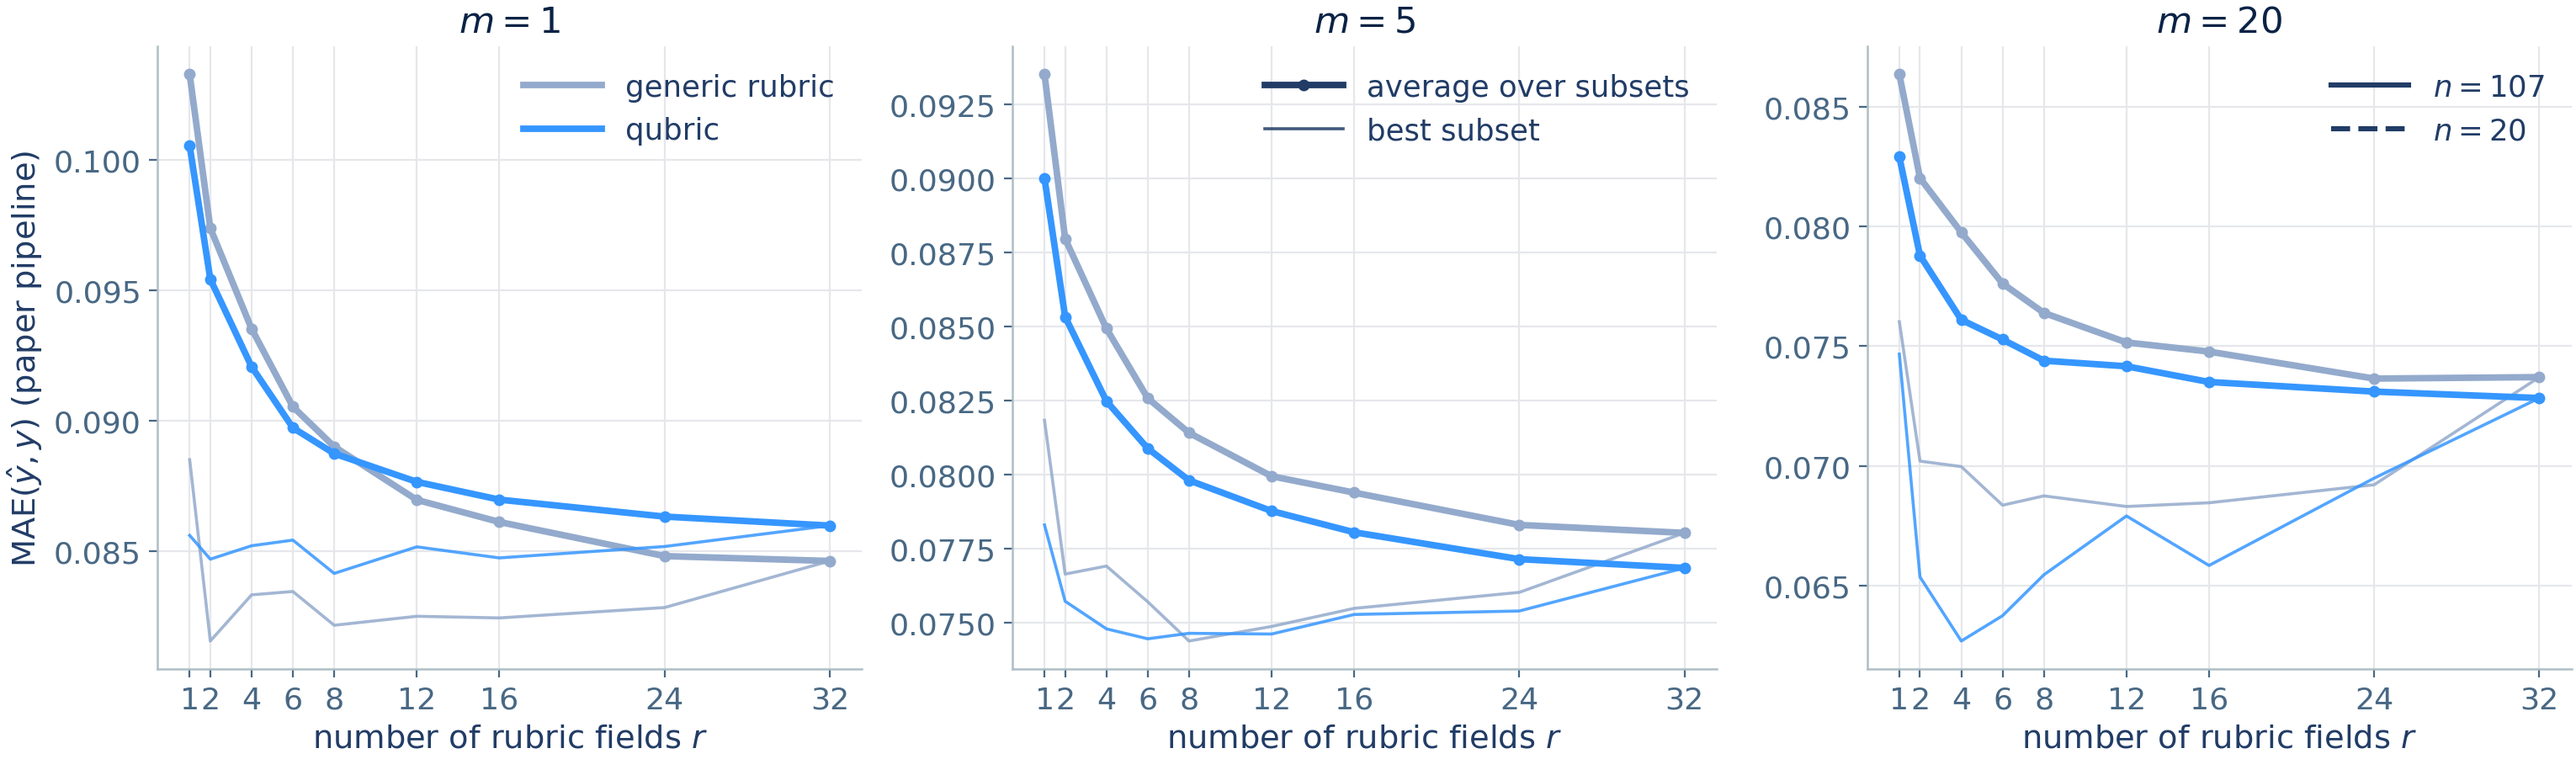
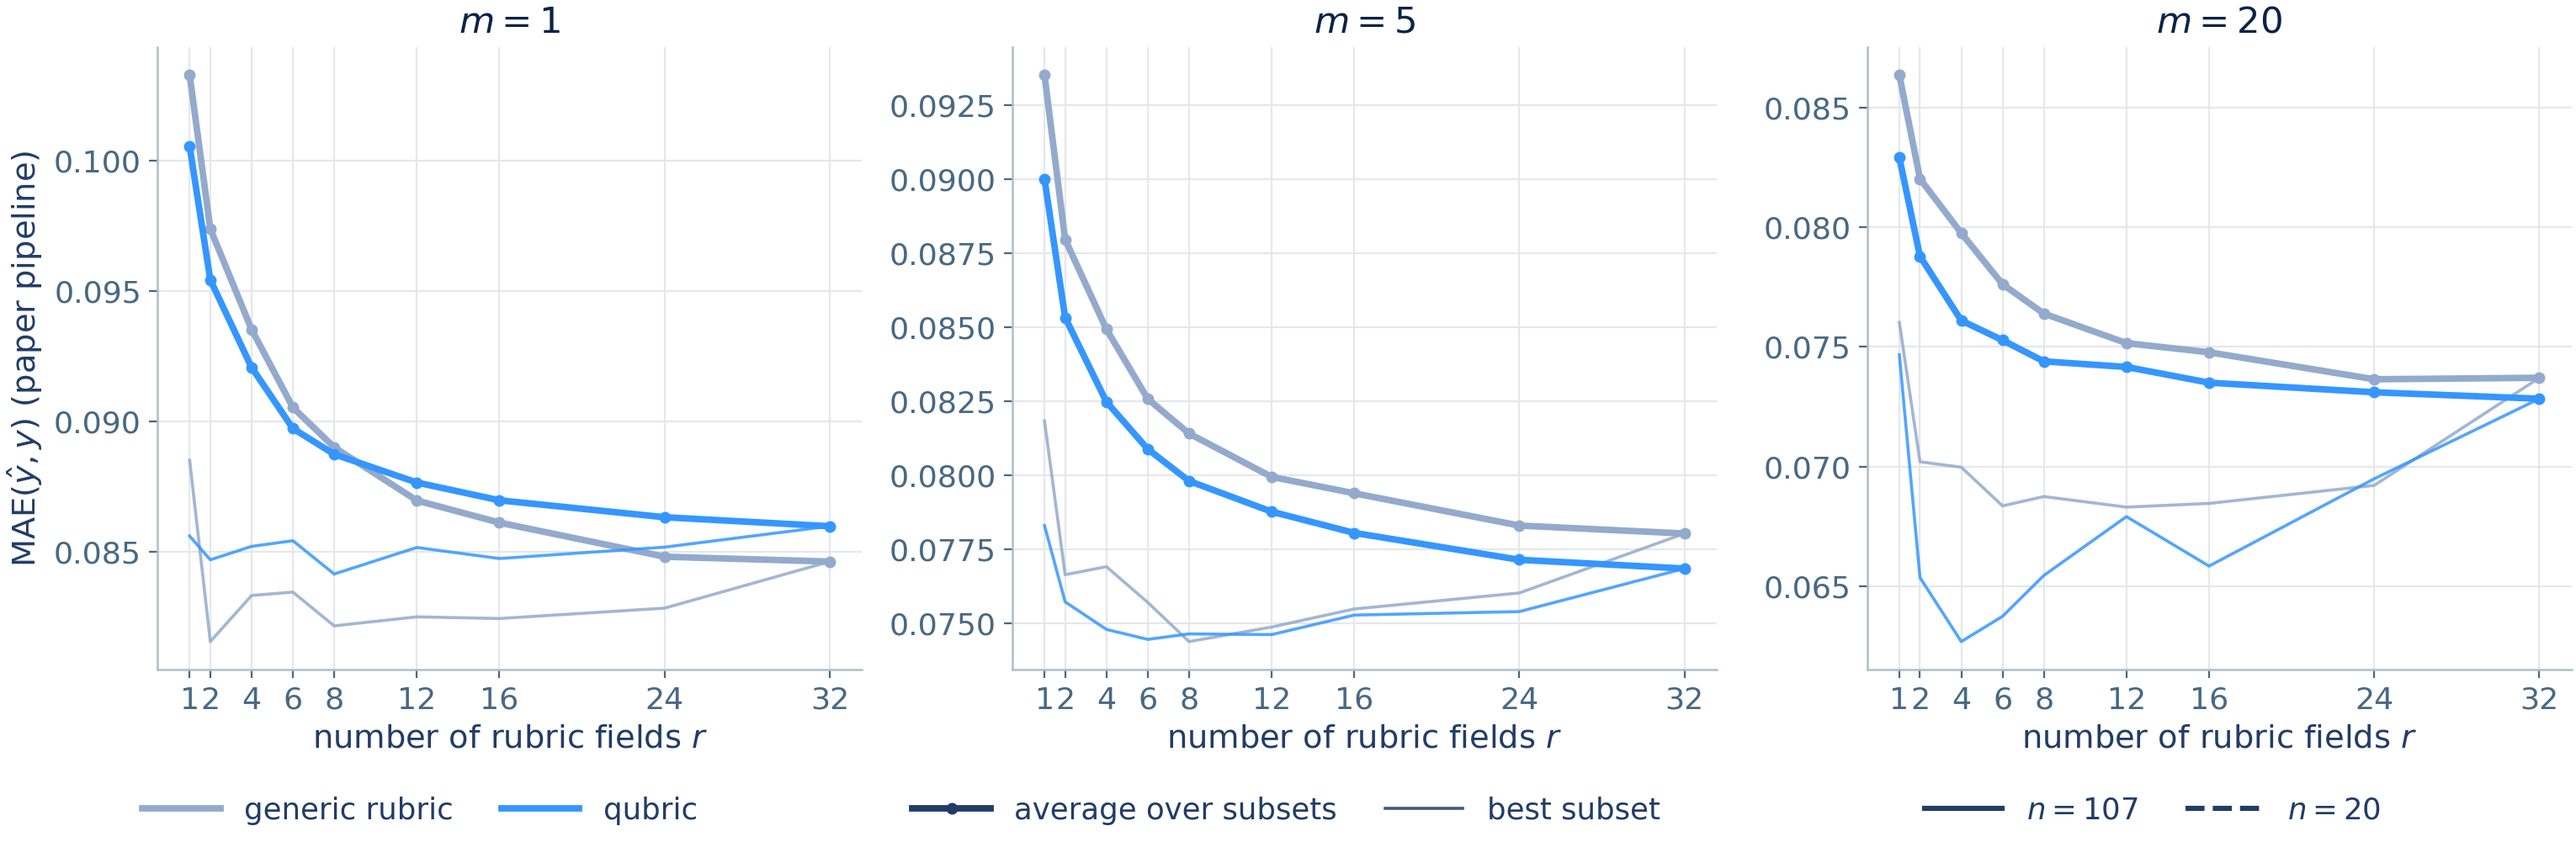
sensitivity: legends below panels
Claude-Session: https://claude.ai/code/session_01RGusFFXzoPTkSKgzzDLjNv

diff --git a/scripts/rubric_sens_paper.py b/scripts/rubric_sens_paper.py
@@ -236,23 +236,24 @@ def render(results):
                        fontsize=SZ['subtitle'])
     ink = hv_style.INK
     legs = (
-        (axes[0], [Line2D([], [], color=hv_style.ROLES['comparator']
+        (.17, [Line2D([], [], color=hv_style.ROLES['comparator']
                           ['color'], lw=2.8, label='generic rubric'),
                    Line2D([], [], color=hv_style.ROLES['focus']['color'],
                           lw=2.8, label='qubric')]),
-        (axes[1], [Line2D([], [], color=ink, lw=2.8, marker='o', ms=4,
+        (.50, [Line2D([], [], color=ink, lw=2.8, marker='o', ms=4,
                           label='average over subsets'),
                    Line2D([], [], color=ink, lw=1.3, alpha=.85,
                           label='best subset')]),
-        (axes[2], [Line2D([], [], color=ink, lw=2.2, ls='-',
+        (.83, [Line2D([], [], color=ink, lw=2.2, ls='-',
                           label='$n = 107$'),
                    Line2D([], [], color=ink, lw=2.2, ls='--',
                           label='$n = 20$')]),
     )
-    for ax, handles in legs:
-        ax.legend(handles=handles, loc='upper right',
-                  fontsize=SZ['legend'] - 1, handlelength=2.6,
-                  frameon=False)
+    for xc, handles in legs:
+        fig.legend(handles=handles, loc='upper center',
+                   bbox_to_anchor=(xc, 0.02), ncol=2,
+                   fontsize=SZ['legend'] - 1, handlelength=2.6,
+                   frameon=False, columnspacing=1.6)
     fig.tight_layout()
     fig.savefig(OUT_PNG, dpi=200, bbox_inches='tight', pad_inches=0.03)
     print('wrote', OUT_PNG)
